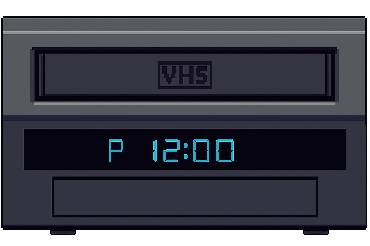
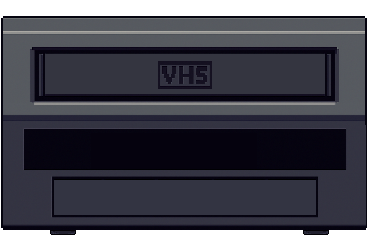
Add VCR-style turn tracker UI with animations
Introduces VCRTurnTrackerUI with dynamic neon styling and animated feedback for money, turn, roll, and round changes. Updates DebuffTest scene and test script to use the new UI, and provides integration documentation. The new UI replaces the old TurnTrackerUI and connects to PlayerEconomy, TurnTracker, and RoundManager for real-time updates.

Changed region(s): [[0.4162, 0.5407, 0.6541, 0.6829], [0.2973, 0.5407, 0.3568, 0.626]]

diff --git a/VCR_UI_Integration.md b/VCR_UI_Integration.md
@@ -1,0 +1,89 @@
+# VCR Turn Tracker UI Integration Guide
+
+## Overview
+The VCRTurnTrackerUI replaces the basic TurnTrackerUI with a retro VCR-style display featuring dynamic animations and neon green styling.
+
+## Features
+- **VCR Font Styling**: Uses VCR_OSD_MONO font with neon green colors
+- **Dynamic Money Animations**: Bounce and flash effects scale with money gained/lost
+- **Subtle Change Indicators**: Turn, roll, and round changes get visual feedback
+- **Flexible Layout**: Designed to fit over VCR display area in game scenes
+
+## Scene Setup Instructions
+
+### 1. Replace existing TurnTrackerUI in scenes:
+```gdscript
+# OLD:
+[ext_resource type="PackedScene" uid="uid://df1otdcd66xb5" path="res://Scenes/UI/turn_tracker_ui.tscn" id="10_bv0jw"]
+
+# NEW:
+[ext_resource type="PackedScene" uid="uid://bkq3n8x8f1a2m" path="res://Scenes/UI/vcr_turn_tracker_ui.tscn" id="10_vcr_ui"]
+```
+
+### 2. Update node instantiation:
+```gdscript
+# OLD:
+[node name="TurnTrackerUI" parent="." instance=ExtResource("10_bv0jw")]
+
+# NEW:
+[node name="VCRTurnTrackerUI" parent="." instance=ExtResource("10_vcr_ui")]
+```
+
+### 3. Position over VCR display area:
+```gdscript
+[node name="VCRTurnTrackerUI" parent="." instance=ExtResource("10_vcr_ui")]
+anchors_preset = 0
+anchor_right = 0.0
+anchor_bottom = 0.0
+offset_left = 401.0    # Adjust to fit VCR display
+offset_top = 85.0      # Adjust to fit VCR display
+offset_right = 580.0   # Adjust to fit VCR display
+offset_bottom = 206.0  # Adjust to fit VCR display
+round_manager_path = NodePath("../RoundManager")
+```
+
+## Signal Connections
+
+### Required Connections:
+1. **TurnTracker binding**: Call `bind_tracker()` from GameController or scene setup
+2. **RoundManager**: Set `round_manager_path` in inspector or scene file
+3. **PlayerEconomy**: Automatically connects to `money_changed` signal in `_ready()`
+
+### Example GameController integration:
+```gdscript
+# In GameController._ready() or scene setup:
+@onready var vcr_ui: VCRTurnTrackerUI = $VCRTurnTrackerUI
+@onready var turn_tracker: TurnTracker = $TurnTracker
+
+func _ready():
+	if vcr_ui and turn_tracker:
+		vcr_ui.bind_tracker(turn_tracker)
+```
+
+## Animation Details
+
+### Money Animations:
+- **Positive gains**: Scale bounce + bright flash (intensity scales with amount)
+- **Negative changes**: Red color flash
+- **Large gains**: Bigger bounce effects (capped at 1.5x scale)
+
+### Change Indicators:
+- **Turn changes**: Subtle scale pulse + color brightening
+- **Roll updates**: Same as turn, plus color change for extra rolls
+- **Round updates**: Same pulse animation
+
+## Files Created:
+- `Scripts/UI/vcr_turn_tracker_ui.gd` - Main script with class_name VCRTurnTrackerUI
+- `Scenes/UI/vcr_turn_tracker_ui.tscn` - Scene with VCR display layout
+
+## Dependencies:
+- `Resources/Font/VCR_OSD_MONO_1.001.ttf` - VCR font (already exists)
+- `PlayerEconomy` autoload for money tracking
+- `TurnTracker` node for turn/roll data
+- `RoundManager` for round progression
+
+## Color Scheme:
+- Primary: `Color(0.2, 1.0, 0.3, 1.0)` - VCR Green
+- Bright: `Color(0.4, 1.0, 0.5, 1.0)` - Highlighted Green
+- Dim: `Color(0.1, 0.8, 0.2, 1.0)` - Dimmed Green
+- Error: Red tint for negative money changes
